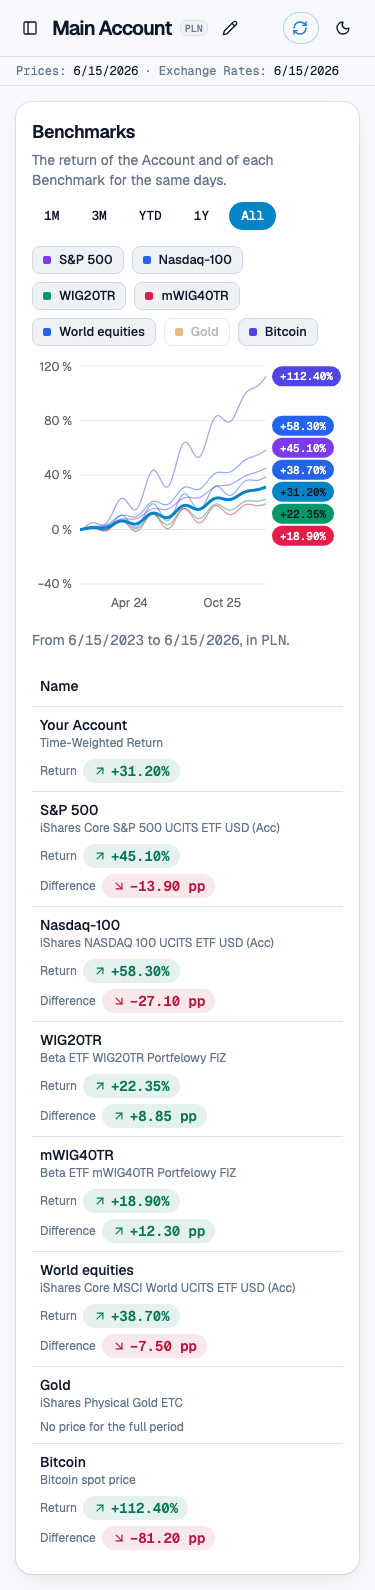
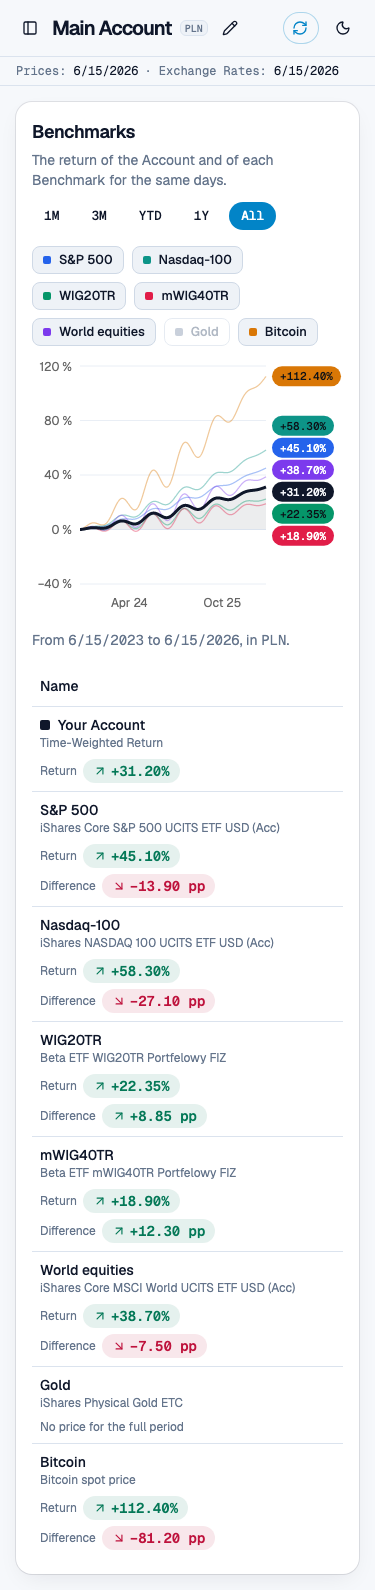
Show the own line in the foreground color on the Benchmarks chart

diff --git a/frontend/src/components/benchmark-chart.tsx b/frontend/src/components/benchmark-chart.tsx
@@ -1,7 +1,8 @@
 import {
+  Area,
   CartesianGrid,
+  ComposedChart,
   Line,
-  LineChart,
   ReferenceLine,
   XAxis,
   YAxis,
@@ -34,7 +35,10 @@ const userKey = "user"
 const userLineWidth = 3
 
 // benchmarkOpacity is the stroke opacity of a Benchmark line, so that the user line stands out.
-const benchmarkOpacity = 0.5
+const benchmarkOpacity = 0.4
+
+// userAreaOpacity is the opacity of the area under the user line.
+const userAreaOpacity = 0.08
 
 // benchmarkLineWidth is the stroke width of a Benchmark line.
 const benchmarkLineWidth = 1.25
@@ -49,20 +53,21 @@ function drawOrder(lines: ChartLine[]): ChartLine[] {
 // LineStyle is the colour of a line and the colour of the text on its end tag.
 type LineStyle = { color: string; ink: string }
 
-// userStyle is the style of the user line: the primary colour. The tag text uses the ink of chart-1, which has the same hue.
-const userStyle: LineStyle = {
-  color: "var(--primary)",
-  ink: "var(--chart-1-foreground)",
+// userStyle is the style of the user line: the foreground colour, which no Benchmark uses. The tag text is inverted.
+export const userStyle: LineStyle = {
+  color: "var(--foreground)",
+  ink: "var(--background)",
 }
 
 // benchmarkStyles gives the style of the line of each Benchmark. A Benchmark with an unknown id uses otherStyle.
 const benchmarkStyles: Record<string, LineStyle> = {
-  sp500: { color: "var(--chart-4)", ink: "var(--chart-4-foreground)" },
+  sp500: { color: "var(--chart-2)", ink: "var(--chart-2-foreground)" },
+  nasdaq100: { color: "var(--chart-6)", ink: "var(--chart-6-foreground)" },
+  world: { color: "var(--chart-4)", ink: "var(--chart-4-foreground)" },
+  bitcoin: { color: "var(--chart-7)", ink: "var(--chart-7-foreground)" },
   wig20tr: { color: "var(--chart-5)", ink: "var(--chart-5-foreground)" },
   mwig40tr: { color: "var(--chart-8)", ink: "var(--chart-8-foreground)" },
-  world: { color: "var(--chart-2)", ink: "var(--chart-2-foreground)" },
-  gold: { color: "var(--chart-7)", ink: "var(--chart-7-foreground)" },
-  bitcoin: { color: "var(--chart-3)", ink: "var(--chart-3-foreground)" },
+  gold: { color: "var(--chart-other)", ink: "var(--chart-other-foreground)" },
 }
 const otherStyle = benchmarkStyles.world
 
@@ -196,7 +201,7 @@ function LinesView({ rows, lines, config, tags, compact }: LinesViewProps) {
       className="aspect-auto h-64 w-full md:h-80"
       initialDimension={{ width: 320, height: 256 }}
     >
-      <LineChart
+      <ComposedChart
         data={rows}
         margin={{ top: 8, right: tagMargin, bottom: 0, left: 0 }}
         accessibilityLayer
@@ -232,6 +237,18 @@ function LinesView({ rows, lines, config, tags, compact }: LinesViewProps) {
             />
           )}
         />
+        <Area
+          dataKey={userKey}
+          type="linear"
+          stroke="none"
+          fill={`var(--color-${userKey})`}
+          fillOpacity={userAreaOpacity}
+          dot={false}
+          activeDot={false}
+          isAnimationActive={false}
+          legendType="none"
+          tooltipType="none"
+        />
         {drawOrder(lines).map((line) => (
           <Line
             key={line.key}
@@ -247,7 +264,7 @@ function LinesView({ rows, lines, config, tags, compact }: LinesViewProps) {
           />
         ))}
         <ChartEndTags time={last} tags={tags} />
-      </LineChart>
+      </ComposedChart>
     </ChartContainer>
   )
 }

diff --git a/frontend/src/components/benchmarks-body.tsx b/frontend/src/components/benchmarks-body.tsx
@@ -1,3 +1,4 @@
+import { userStyle } from "@/components/benchmark-chart"
 import { TriangleAlertIcon } from "lucide-react"
 import type { ReactNode } from "react"
 import { useSearchParams } from "react-router"
@@ -139,6 +140,7 @@ function BenchmarkTable({
           <FigureRow
             name={subjectLabel(subject)}
             detail="Time-Weighted Return"
+            swatch
             returnCell={<ResultBadge value={data.user.return} />}
             differenceCell={null}
           />
@@ -173,6 +175,8 @@ function BenchmarkRow({ benchmark }: { benchmark: BenchmarkReturn }) {
 }
 
 type FigureRowProps = {
+  // swatch shows a small square in the color of the user line before the name.
+  swatch?: boolean
   name: string
   detail: string
   // returnCell and differenceCell are the figures. Undefined means that the tool has no price for the full period.
@@ -185,6 +189,7 @@ type FigureRowProps = {
 
 // FigureRow is one row of the table: the name with its detail and the two figures, in columns on a wide screen.
 function FigureRow({
+  swatch,
   name,
   detail,
   returnCell,
@@ -195,7 +200,16 @@ function FigureRow({
   return (
     <TableRow>
       <TableCell className="font-medium whitespace-normal">
-        {name}
+        <span className="flex items-center gap-2">
+          {swatch && (
+            <span
+              aria-hidden
+              className="size-2.5 shrink-0 rounded-[2px]"
+              style={{ backgroundColor: userStyle.color }}
+            />
+          )}
+          {name}
+        </span>
         <span className="block text-xs font-normal break-words text-muted-foreground">
           {detail}
         </span>

diff --git a/frontend/src/index.css b/frontend/src/index.css
@@ -104,6 +104,7 @@
   --chart-other-foreground: #0f172a;
   --chart-4-foreground: #ffffff;
   --chart-5-foreground: #0c1017;
+  --chart-6-foreground: #0c1017;
   --chart-7-foreground: #0c1017;
   --chart-8-foreground: #ffffff;
   --radius: 0.625rem;
@@ -163,6 +164,7 @@
   --chart-other-foreground: #f1f5f9;
   --chart-4-foreground: #0c1017;
   --chart-5-foreground: #0c1017;
+  --chart-6-foreground: #0c1017;
   --chart-7-foreground: #0c1017;
   --chart-8-foreground: #0c1017;
   --sidebar: #090d13;
